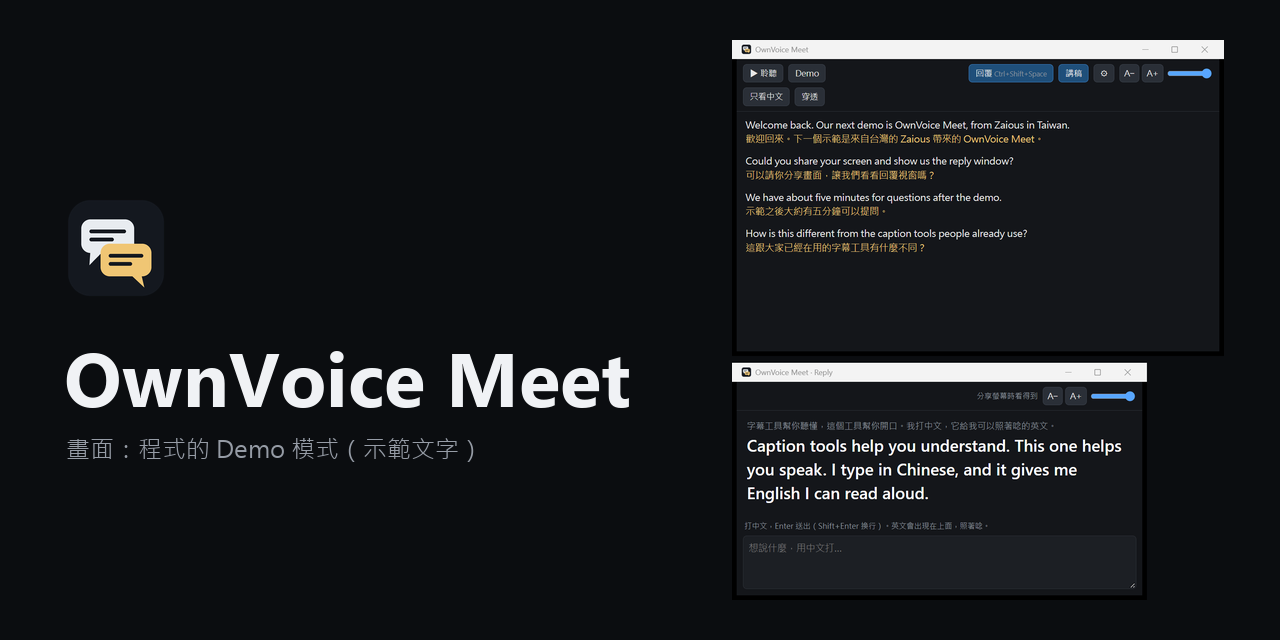
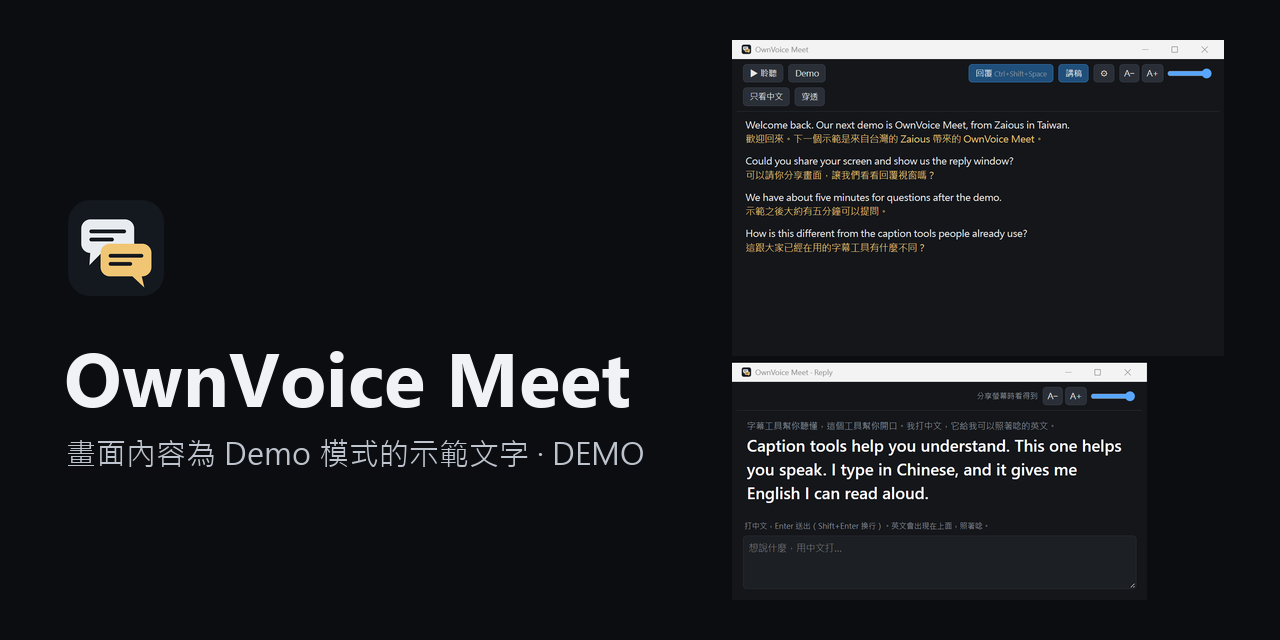
Social preview: the window frame in the panel colour, a clearer demo label
The capture's 11 px black window frame is painted in the windows' own panel
colour, so the panel meets the title bar's edges; the demo label is larger
(30 px), lighter, and reads "畫面內容為 Demo 模式的示範文字 · DEMO".

Changed region(s): [[0.0312, 0.6875, 0.5, 0.75], [0.5625, 0.5312, 0.9688, 0.5625], [0.5625, 0.9062, 0.9062, 0.9375]]

diff --git a/scripts/social-preview.py b/scripts/social-preview.py
@@ -16,7 +16,8 @@ ROOT = pathlib.Path(__file__).resolve().parent.parent
 OUT = ROOT / "docs/media/social-preview.png"
 W, H = 1280, 640
 BACKGROUND = (11, 13, 16)  # the background around the windows in overview.png, so the capture blends in
-NAME, MUTED = (240, 242, 245), (150, 156, 166)
+NAME, MUTED = (240, 242, 245), (190, 196, 206)
+PANEL = (20, 22, 26)  # the windows' background in overview.png
 # The captions window and the reply window: the left column of overview.png.
 WINDOWS = (16, 16, 1178, 1338)
 
@@ -26,6 +27,15 @@ def main() -> None:
     draw = ImageDraw.Draw(canvas)
 
     shot = Image.open(ROOT / "docs/images/overview.png").convert("RGB").crop(WINDOWS)
+    # In the capture each window has an 11 px pure black frame on its left, right and bottom, inside
+    # the width of its title bar. Paint it in the windows' own panel colour, so the panel meets the
+    # title bar's edges instead of a black border. Nothing else in the capture is this dark.
+    shot = Image.eval(shot, lambda v: v)  # copy
+    px = shot.load()
+    for y in range(shot.height):
+        for x in range(shot.width):
+            if max(px[x, y]) <= 6:
+                px[x, y] = PANEL
     height = H - 2 * 40
     shot = shot.resize((round(shot.width * height / shot.height), height), Image.LANCZOS)
     left = W - 56 - shot.width
@@ -35,8 +45,8 @@ def main() -> None:
     canvas.paste(icon, (64, 196), icon)
     name = ImageFont.truetype("segoeuib.ttf", 76)
     draw.text((64, 324), "OwnVoice Meet", font=name, fill=NAME)
-    label = ImageFont.truetype("msjh.ttc", 24)
-    draw.text((66, 432), "畫面：程式的 Demo 模式（示範文字）", font=label, fill=MUTED)
+    label = ImageFont.truetype("msjh.ttc", 30)
+    draw.text((66, 432), "畫面內容為 Demo 模式的示範文字 · DEMO", font=label, fill=MUTED)
 
     canvas.save(OUT, optimize=True)
     print(f"{OUT}: {canvas.width}x{canvas.height}, {OUT.stat().st_size / 1024:.0f} KB; name block ends at x="
